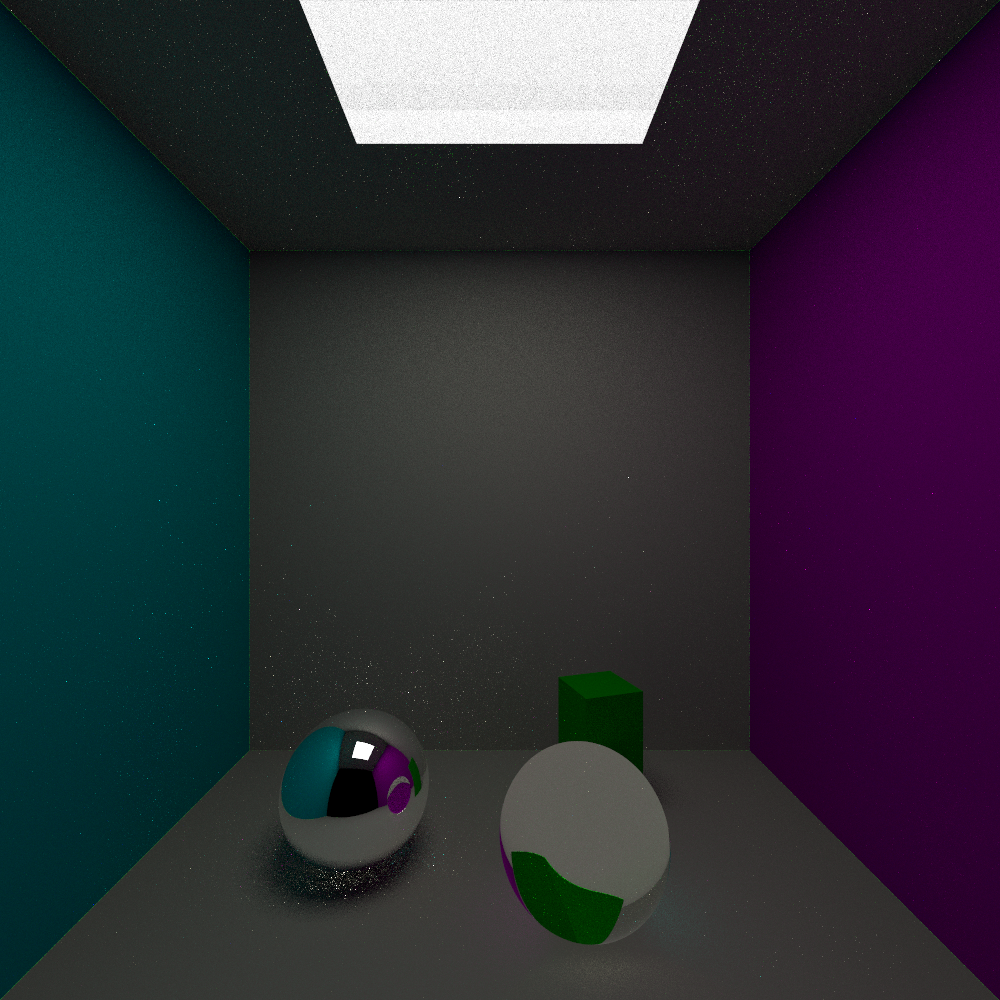
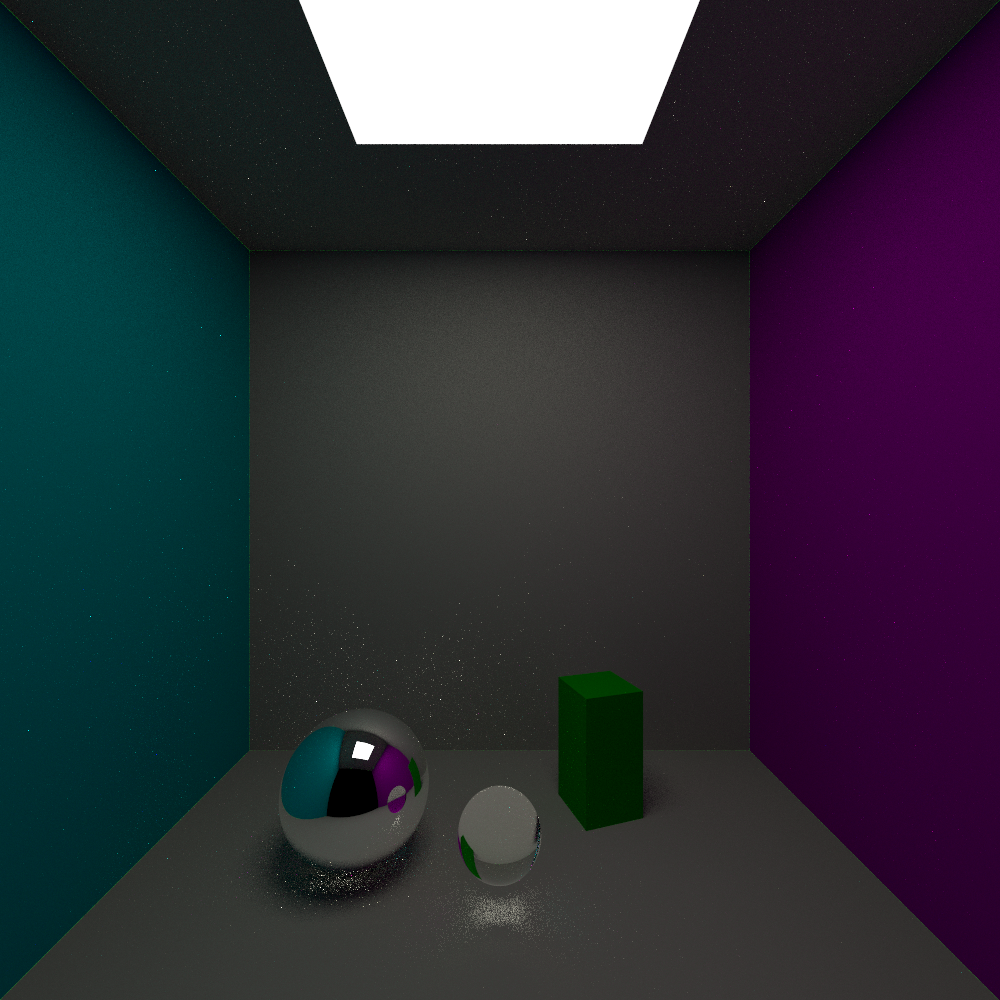
move light down slightly in box scene

diff --git a/src/tracer/scene.rs b/src/tracer/scene.rs
@@ -95,9 +95,9 @@ impl Scene {
                  * before roof in this vector and everything should be ok */
                 Rectangle::new(
                     DMat3::from_cols(
-                        DVec3::new(-2.0*light_xy, -yg, light_z + 2.0*light_xy),
-                        DVec3::new(-2.0*light_xy, -yg, light_z - 2.0*light_xy),
-                        DVec3::new(2.0*light_xy, -yg, light_z - 2.0*light_xy),
+                        DVec3::new(-2.0*light_xy, -yg - EPSILON, light_z + 2.0*light_xy),
+                        DVec3::new(-2.0*light_xy, -yg - EPSILON, light_z - 2.0*light_xy),
+                        DVec3::new(2.0*light_xy, -yg - EPSILON, light_z - 2.0*light_xy),
                     ),
                     Material::Light(Texture::Solid(DVec3::ONE)),
                 ),
@@ -107,8 +107,8 @@ impl Scene {
                     Material::Mirror,
                 ),
                 Sphere::new(
-                    DVec3::new(light_xy, yg + r, light_z - light_xy),
-                    r,
+                    DVec3::new(0.0, yg + r, light_z - light_xy),
+                    0.5*r,
                     Material::Glass,
                 ),
                 Cuboid::new(
